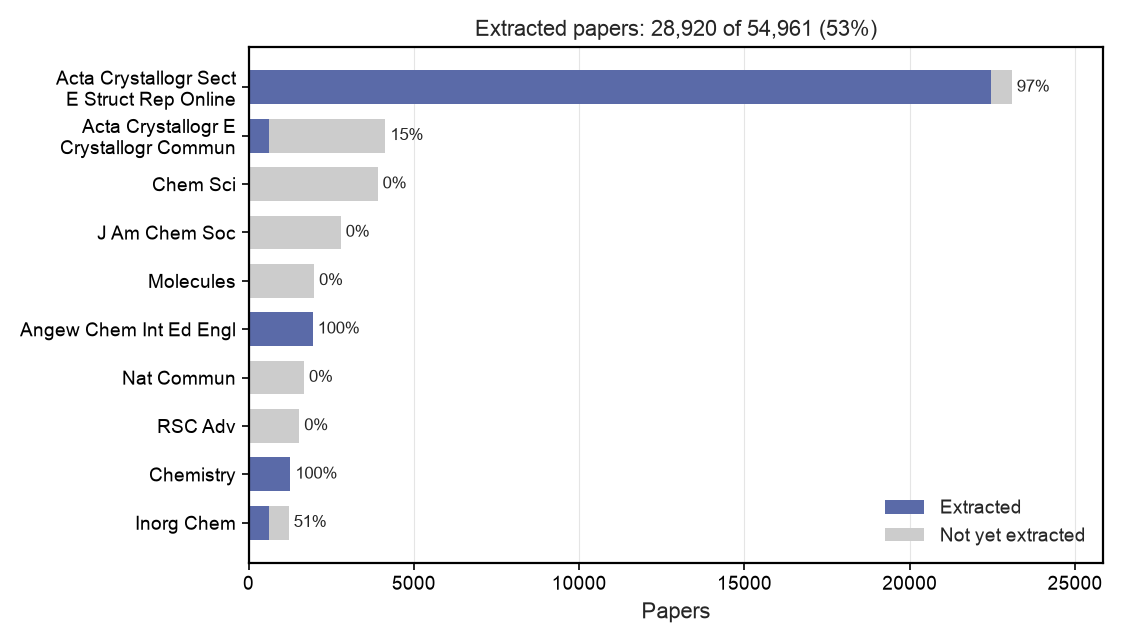
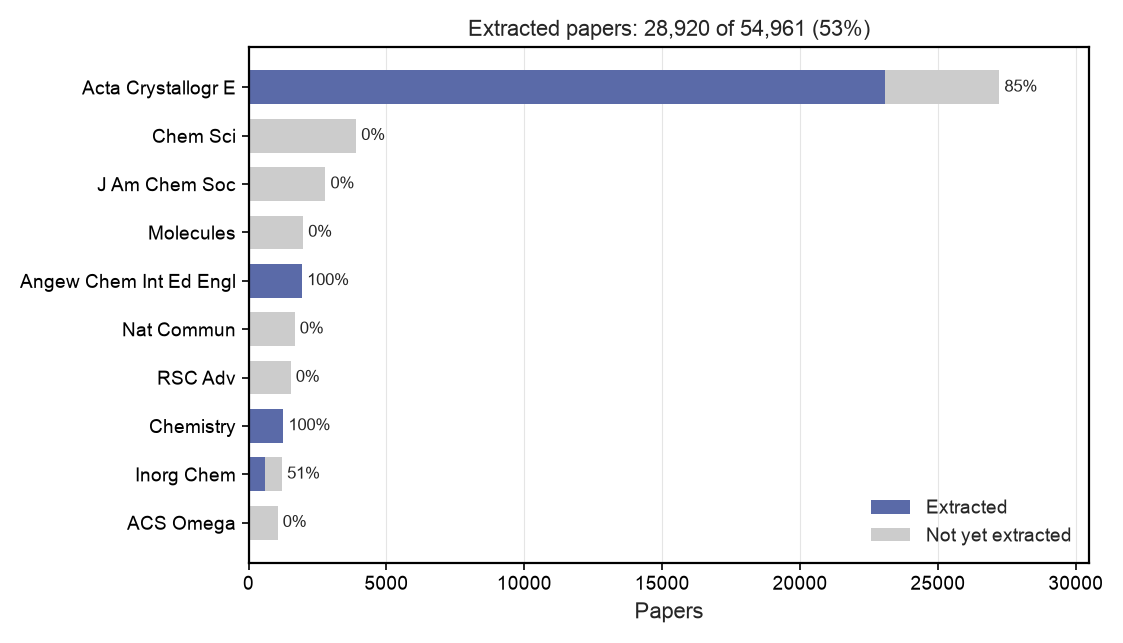
Number the website's scripts and merge the two names of Acta E in the plots

diff --git a/scripts/analysis/s0_paper_plots.py b/scripts/analysis/s0_paper_plots.py
@@ -5,7 +5,7 @@ import numpy as np
 import polars as pl
 from jsonargparse import auto_cli
 
-from dataset.csd import nlm_abbrevs
+from dataset.csd import ACTA_E, merge_acta_e, nlm_abbrevs
 from dataset.paths import DATA_DIR, REPO_ROOT
 from viz import theme
 
@@ -14,6 +14,7 @@ PLOTS = ["years", "downloads"]
 
 def main(
     papers: str = str(DATA_DIR / "papers"),
+    acta_e: str = str(REPO_ROOT / "src" / "viz" / "assets" / "publisher_papers.parquet"),
     out: str = str(REPO_ROOT / "docs" / "assets"),
     first_year: int = 2000,
 ):
@@ -21,6 +22,12 @@ def main(
 
     Writes `<out>/<plot>.png` for each plot in `PLOTS`: the papers per year since `first_year`
     stacked by journal, and the licences and files of the downloaded papers.
+
+    Args:
+        papers: The papers folder, with `metadata.parquet`, `parsed.parquet` and `raw/`.
+        acta_e: The papers table of the Acta E collection (one row per paper).
+        out: The folder to write the figures to.
+        first_year: The first year of the papers-per-year figure.
     """
     papers, out = pathlib.Path(papers), pathlib.Path(out)
     out.mkdir(parents=True, exist_ok=True)
@@ -29,12 +36,18 @@ def main(
     theme.apply()
 
     # Papers per year, stacked by the five largest journals. Years before `first_year` have a
-    # handful of papers each, so they are left out.
-    journals = meta.group_by("journal").len("papers").sort("papers", "journal", descending=True)
-    top5 = journals.head(5)["journal"].to_list()
-    abbrevs = nlm_abbrevs(meta, top5, papers / "raw")
+    # handful of papers each, so they are left out. The Acta E collection adds the few Acta E
+    # papers whose DOI the CSD does not record, so they are not in `metadata.parquet`.
+    extra = pl.read_parquet(acta_e, columns=["doi", "year"])
+    extra = extra.filter(~pl.col("doi").is_in(meta["doi"].implode()))
+    all_papers = pl.concat(
+        [meta.select("journal", "year"), extra.select(journal=pl.lit(ACTA_E), year="year")]
+    ).with_columns(merge_acta_e(pl.col("journal")))
+    journals = all_papers.group_by("journal").len("papers")
+    top5 = journals.sort("papers", "journal", descending=True).head(5)["journal"].to_list()
+    abbrevs = nlm_abbrevs(meta, [j for j in top5 if j != ACTA_E], papers / "raw")
     group = pl.when(pl.col("journal").is_in(top5)).then("journal").otherwise(pl.lit("Other"))
-    by_year = meta.filter(pl.col("year") >= first_year).group_by("year", group=group).len()
+    by_year = all_papers.filter(pl.col("year") >= first_year).group_by("year", group=group).len()
     by_year = by_year.pivot("group", index="year", values="len").fill_null(0).sort("year")
     years = by_year["year"].to_numpy()
     fig, ax = plt.subplots(figsize=(theme.WIDTH, 2.4), layout="constrained")

diff --git a/scripts/analysis/s0_extraction_plots.py b/scripts/analysis/s0_extraction_plots.py
@@ -6,7 +6,7 @@ import numpy as np
 import polars as pl
 from jsonargparse import auto_cli
 
-from dataset.csd import nlm_abbrevs
+from dataset.csd import ACTA_E, merge_acta_e, nlm_abbrevs
 from dataset.paths import DATA_DIR, REPO_ROOT
 from viz import theme
 
@@ -68,9 +68,12 @@ def main(
     print(ext.group_by("prompt_version", "extraction_status").len().sort(pl.all()))
 
     # Papers of the largest journals: extracted versus not yet extracted.
-    journals = done.group_by("journal").agg(pl.len().alias("papers"), pl.col("run").sum())
+    journals = done.group_by(journal=merge_acta_e(pl.col("journal"))).agg(
+        pl.len().alias("papers"), pl.col("run").sum()
+    )
     journals = journals.sort("papers", "journal", descending=True).head(top)
-    abbrevs = nlm_abbrevs(meta, journals["journal"].to_list(), papers / "raw")
+    named = [j for j in journals["journal"] if j != ACTA_E]
+    abbrevs = nlm_abbrevs(meta, named, papers / "raw") | {ACTA_E: ACTA_E}
     labels = ["\n".join(textwrap.wrap(abbrevs[j], 22)) for j in journals["journal"]][::-1]
     total, extracted = journals["papers"].to_numpy()[::-1], journals["run"].to_numpy()[::-1]
     fig, ax = plt.subplots(figsize=(theme.WIDTH, 3.1), layout="constrained")

diff --git a/src/dataset/csd.py b/src/dataset/csd.py
@@ -19,6 +19,16 @@ DOAJ_FALSE_MATCHES = ["Synthesis", "Matter"]
 # The NLM title abbreviation of a paper's journal, as in https://www.ncbi.nlm.nih.gov/nlmcatalog/.
 NLM_TA = re.compile(r'<journal-id journal-id-type="nlm-ta">([^<]+)<')
 
+# Acta Crystallographica Section E was renamed in 2014 (Structure Reports Online, then
+# Crystallographic Communications), so the CSD lists it under two names.
+ACTA_E = "Acta Crystallogr E"
+
+
+def merge_acta_e(journal):
+    """Replaces both CSD names of Acta Crystallographica Section E with `ACTA_E`."""
+    is_acta_e = journal.str.starts_with("Acta Crystallogr.,Sect.E")
+    return pl.when(is_acta_e).then(pl.lit(ACTA_E)).otherwise(journal)
+
 
 def read_papers(path):
     """Reads the paper of each CSD entry from the full CSD metadata.

diff --git a/tests/viz/test_cif_inventory.py b/tests/viz/test_cif_inventory.py
@@ -7,7 +7,7 @@ import zipfile
 from pathlib import Path
 
 SPEC = importlib.util.spec_from_file_location(
-    "audit", Path(__file__).resolve().parents[2] / "scripts/runs/viz/audit_publisher_cifs.py"
+    "audit", Path(__file__).resolve().parents[2] / "scripts/runs/viz/s0_audit_cifs.py"
 )
 audit = importlib.util.module_from_spec(SPEC)
 SPEC.loader.exec_module(audit)

diff --git a/tests/viz/test_publisher_site.py b/tests/viz/test_publisher_site.py
@@ -15,7 +15,7 @@ from fastapi.testclient import TestClient
 
 ROOT = Path(__file__).resolve().parents[2]
 spec = importlib.util.spec_from_file_location(
-    "builder", ROOT / "scripts/runs/viz/build_publisher_assets.py"
+    "builder", ROOT / "scripts/runs/viz/s2_assets.py"
 )
 builder = importlib.util.module_from_spec(spec)
 spec.loader.exec_module(builder)

diff --git a/tests/viz/test_combined_import.py b/tests/viz/test_combined_import.py
@@ -12,7 +12,7 @@ import polars as pl
 
 ROOT = Path(__file__).resolve().parents[2]
 SPEC = importlib.util.spec_from_file_location(
-    "combined_builder", ROOT / "scripts/runs/viz/build_publisher_assets.py"
+    "combined_builder", ROOT / "scripts/runs/viz/s2_assets.py"
 )
 builder = importlib.util.module_from_spec(SPEC)
 SPEC.loader.exec_module(builder)
